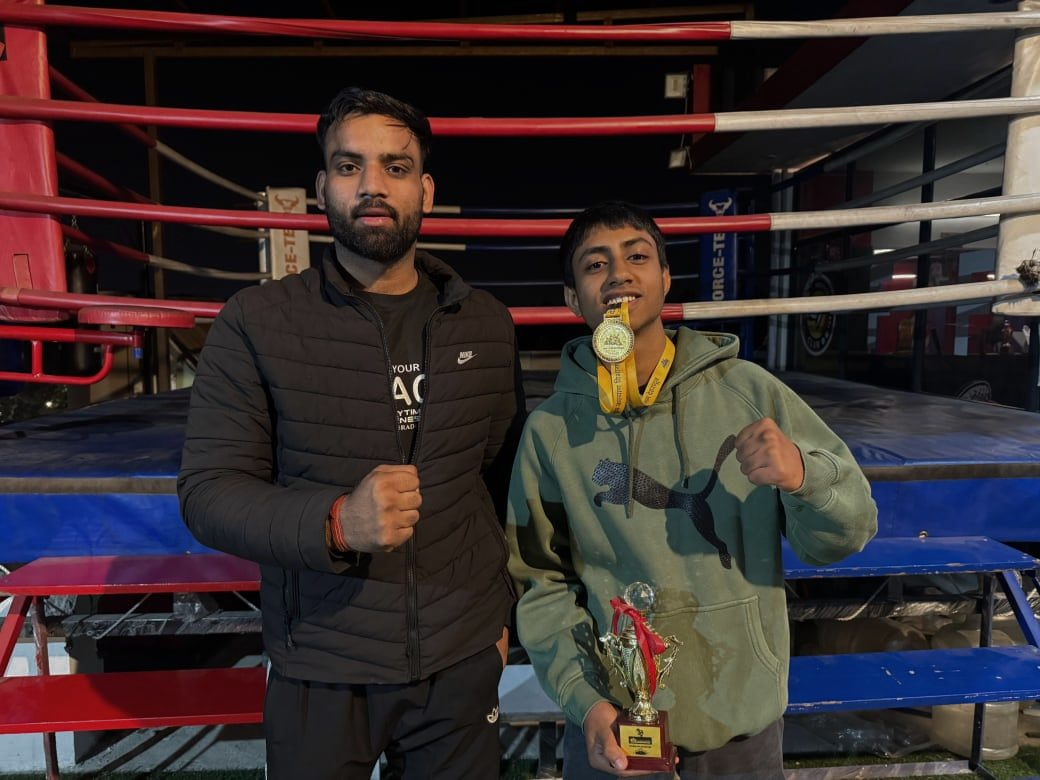
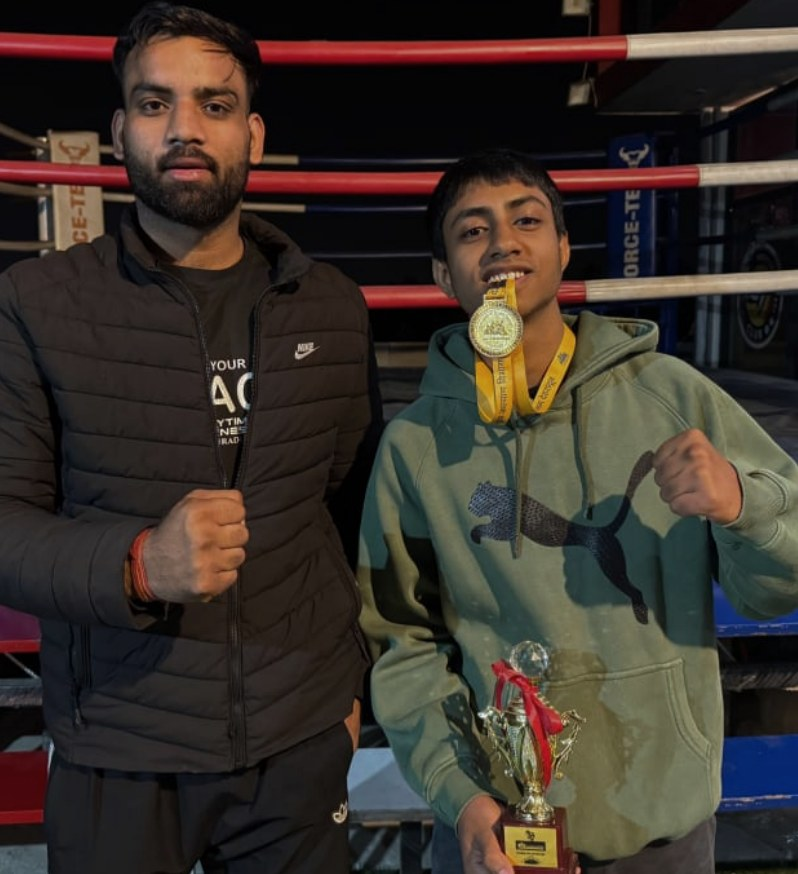
Add files via upload

diff --git a/index.html b/index.html
@@ -38,13 +38,15 @@ nav.toc a:hover{padding-left:1rem;color:#fff}
 .banner img{width:100%;aspect-ratio:2.78;object-fit:cover}
 .banner h2{position:absolute;bottom:-.25em;left:0;right:0;text-align:center;font-size:clamp(3rem,8vw,6.5rem)}
 .center{text-align:center;max-width:820px;margin:0 auto}
-.photo{width:100%;aspect-ratio:1;object-fit:cover}
+.photo{width:100%;height:auto;justify-self:center}
+@media(min-width:801px){.photo{width:32vw}}
 .years{display:grid;grid-template-columns:repeat(3,1fr);gap:2rem;margin-top:2rem}
 .years b{display:block;font-size:1.2rem}
-.hero-edu{width:100%;aspect-ratio:2.66;object-fit:cover}
+.hero-edu{width:100%;aspect-ratio:1302/486}
 .row{display:grid;grid-template-columns:1.6fr 1fr 1.6fr;gap:1.5rem;align-items:center;margin-top:1.5rem}
 .row img{width:100%;height:auto}
 .right{text-align:right}
+.train .split{align-items:start}.train h3{text-transform:uppercase}.train p{font-weight:700}
 .cut{max-height:62vh;margin:0 auto}
 .process{font-size:1.1rem;margin:.4rem 0 1rem}
 .shot{width:100%;height:auto;object-fit:cover}
@@ -114,14 +116,14 @@ ul.feat{columns:2;padding-left:1.1rem;margin:.6rem 0}
       <p>I like learning by doing, figuring things out along the way, and seeing an idea become something real.</p>
       <p class="tag" style="margin-top:1rem">I understand. I build. I improve.</p>
     </div>
-    <img class="photo rv" src="images/about.jpg" alt="Dev Garg portrait" style="object-position:10% 50%">
+    <img class="photo rv" src="images/about.jpg" alt="Dev Garg portrait">
   </div>
 </section>
 
 <section id="education">
   <div class="split rv" style="grid-template-columns:auto 1fr">
     <h2>Education</h2>
-    <img class="hero-edu" src="images/education.jpg" alt="Graduation ceremony" style="object-position:50% 100%">
+    <img class="hero-edu" src="images/education.jpg" alt="Graduation ceremony">
   </div>
   <div class="years rv">
     <div><b>2024</b><h3>Grace Academy, Dehradun</h3><p>Completed Class X with an aggregate of 80%. With certificates of Merit in IT &amp; Hindi.</p></div>
@@ -159,13 +161,13 @@ ul.feat{columns:2;padding-left:1.1rem;margin:.6rem 0}
 <section id="training">
   <h2 class="center rv">Skills &amp; Hobbies</h2>
   <h3 class="rv" style="margin-top:1.5rem;font-size:2rem">Training</h3>
-  <div class="split rv">
+  <div class="split rv train">
     <div class="split" style="gap:1.5rem">
-      <img src="images/calisthenics.jpg" alt="Weighted calisthenics" style="aspect-ratio:.8;object-fit:cover">
+      <img src="images/calisthenics.jpg" alt="Weighted calisthenics" style="aspect-ratio:692/866">
       <div><h3>Weighted Calisthenics</h3><p>I've been training calisthenics for 3 years, with a focus on strength, body control, and progressive overload through weighted movements.</p></div>
     </div>
     <div class="split" style="gap:1.5rem">
-      <img src="images/boxing.jpg" alt="Boxing gold medal" style="aspect-ratio:.91;object-fit:cover">
+      <img src="images/boxing.jpg" alt="Boxing gold medal" style="aspect-ratio:798/874">
       <div><h3>Boxing</h3><p>2024 Khel Mahakumbh Boxing Gold medalist in under 17 featherweight category.</p></div>
     </div>
   </div>
@@ -178,7 +180,7 @@ ul.feat{columns:2;padding-left:1.1rem;margin:.6rem 0}
       <p class="tag" style="margin-top:1.5rem">Things I've built, designed &amp; experimented with.</p>
       <p>From physical builds to software and engineering projects, these are some of the things I've worked on to turn ideas into something tangible.</p>
     </div>
-    <img class="cut rv" src="images/hero.png" alt="Dev Garg">
+    <img class="photo rv" src="images/hero.jpg" alt="Dev Garg">
   </div>
 </section>
 
